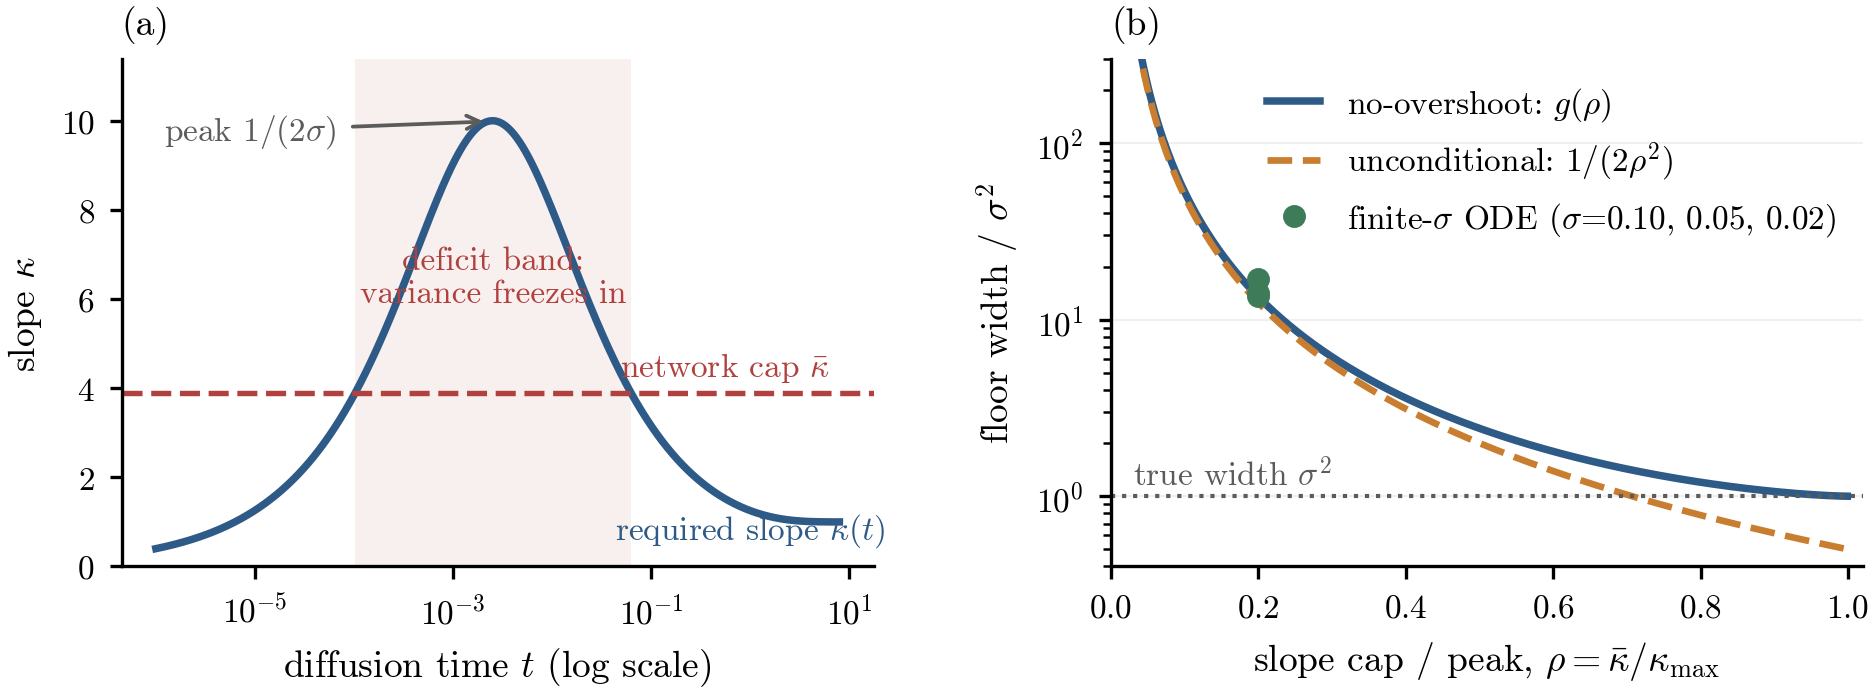
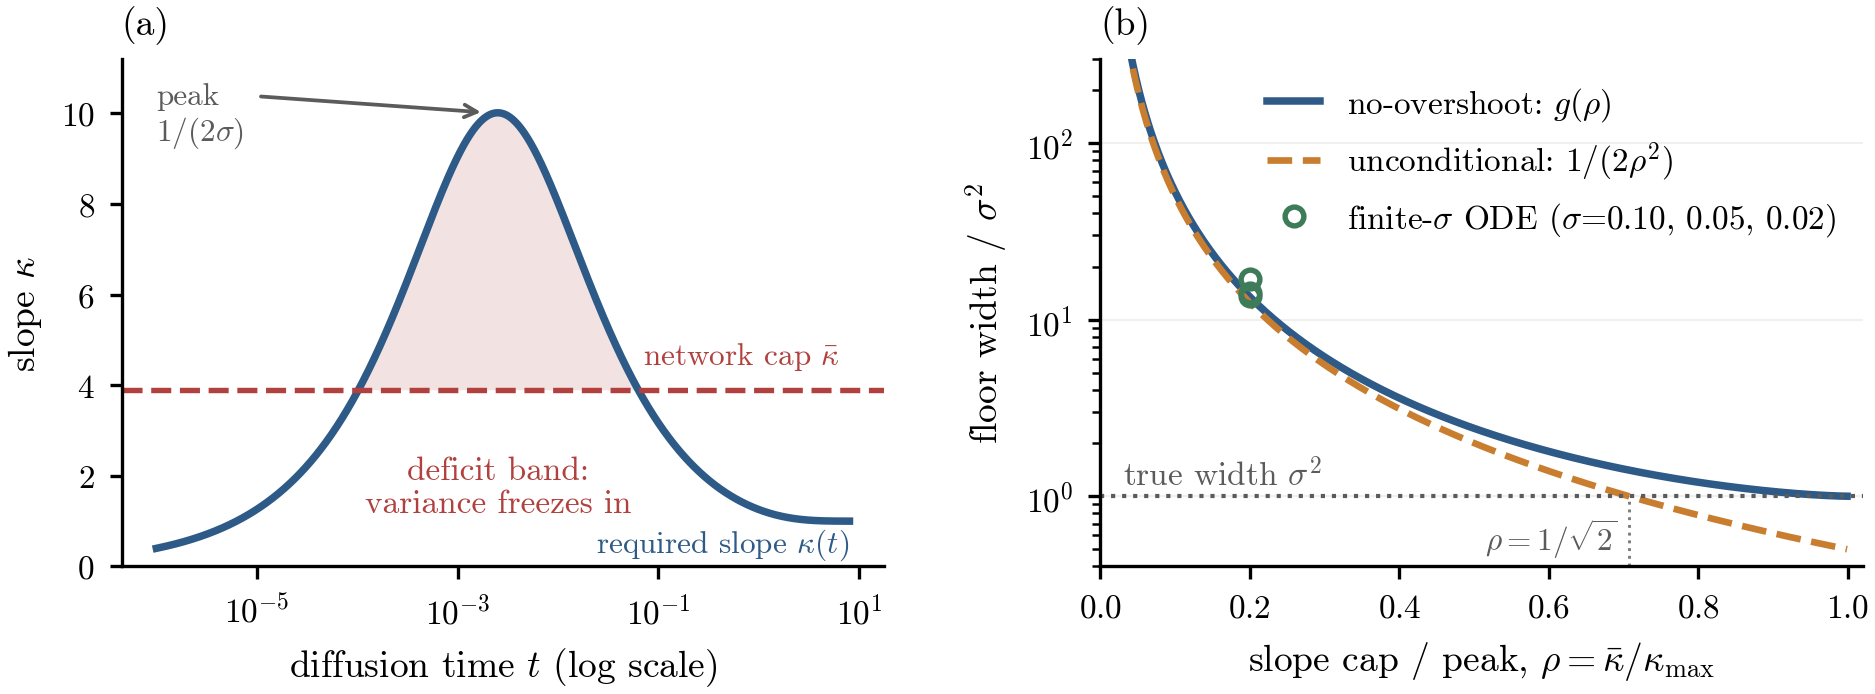
fig0 upgrade: shade the actual deficit lens instead of a band rectangle, mark the rho=1/sqrt2 threshold in panel (b), and add a programmatic text-collision check (text-only bboxes vs curves and other text) to the diagram script

diff --git a/make_paper_diagrams.py b/make_paper_diagrams.py
@@ -26,25 +26,27 @@ KBAR = 3.9
 fig, (ax, ax2) = plt.subplots(1, 2, figsize=(6.5, 2.55))
 
 # --- panel (a): the required slope is non-monotone, so the deficit band is finite.
-# Direct labels only (no legend box), so nothing can collide.
+# Direct labels only (no legend box); shade the actual deficit lens (cap-to-curve),
+# with dotted guides marking the band's extent on the time axis.
 ax.plot(t, kap, color=st.BLUE, lw=1.8)
 ax.axhline(KBAR, color=st.RED, lw=1.3, ls="--")
 bandmask = kap > KBAR
 tlo, thi = t[bandmask].min(), t[bandmask].max()
-ax.axvspan(tlo, thi, color=st.RED, alpha=0.08, lw=0)
-ax.text(np.sqrt(tlo * thi), 6.5, "deficit band:\nvariance freezes in",
+ax.fill_between(t, KBAR, kap, where=bandmask, color=st.RED, alpha=0.15, lw=0)
+ax.text(np.sqrt(tlo * thi), 1.75, "deficit band:\nvariance freezes in",
         ha="center", va="center", fontsize=8, color=st.RED)
-ax.annotate("peak $1/(2\\sigma)$", xy=(SIG ** 2, 1 / (2 * SIG)),
-            xytext=(1.2e-6, 9.6), fontsize=8, color=st.GRAY,
-            arrowprops=dict(arrowstyle="->", lw=0.9, color=st.GRAY))
-ax.text(1.0, 0.38, "required slope $\\kappa(t)$", fontsize=8,
-        color=st.BLUE, ha="center", va="bottom")
-ax.text(6.5, KBAR + 0.2, "network cap $\\bar\\kappa$", fontsize=8,
+ax.annotate("peak\n$1/(2\\sigma)$", xy=(SIG ** 2, 1 / (2 * SIG)),
+            xytext=(1e-6, 10.7), fontsize=7.5, color=st.GRAY, va="top",
+            arrowprops=dict(arrowstyle="->", lw=0.9, color=st.GRAY,
+                            shrinkB=4, relpos=(1.0, 0.8)))
+ax.text(8, 0.1, "required slope $\\kappa(t)$", fontsize=7.5,
+        color=st.BLUE, ha="right", va="bottom")
+ax.text(6.5, KBAR + 0.4, "network cap $\\bar\\kappa$", fontsize=7.5,
         color=st.RED, ha="right", va="bottom")
 ax.set_xscale("log")
 ax.set_xlabel("diffusion time $t$ (log scale)")
 ax.set_ylabel("slope $\\kappa$")
-ax.set_ylim(0, 11.4)
+ax.set_ylim(0, 11.2)
 ax.set_title("(a)", loc="left")
 
 # --- panel (b): the closed-form floor as a function of the slope cap
@@ -60,10 +62,15 @@ g_un = 1 / (2 * rho ** 2)
 ax2.plot(rho, g_no, color=st.BLUE, lw=1.8, label="no-overshoot: $g(\\rho)$")
 ax2.plot(rho, g_un, color=st.AMBER, lw=1.6, ls="--", label="unconditional: $1/(2\\rho^2)$")
 fs = [17.005, 14.121, 13.571]  # rho=0.2 at sigma=0.10, 0.05, 0.02
-ax2.plot([0.20] * 3, fs, "o", color=st.GREEN, ms=4.5,
+ax2.plot([0.20] * 3, fs, "o", color=st.GREEN, ms=4.5, mfc="none", mew=1.3,
          label="finite-$\\sigma$ ODE ($\\sigma$=0.10, 0.05, 0.02)")
 ax2.axhline(1, color=st.GRAY, ls=":", lw=1.0)
 ax2.text(0.03, 1.15, "true width $\\sigma^2$", color=st.GRAY, ha="left", fontsize=8)
+# the (U)-class threshold: floor exceeds sigma^2 whenever rho < 1/sqrt(2)
+RSTAR = 1 / np.sqrt(2)
+ax2.plot([RSTAR, RSTAR], [0.4, 1.0], color=st.GRAY, ls=":", lw=0.7, alpha=0.8)
+ax2.text(RSTAR - 0.015, 0.58, "$\\rho=1/\\sqrt{2}$", color=st.GRAY, fontsize=7.5,
+         ha="right", va="center")
 ax2.set_yscale("log")
 ax2.set_xlabel("slope cap / peak, $\\rho=\\bar\\kappa/\\kappa_{\\max}$")
 ax2.set_ylabel("floor width / $\\sigma^2$")
@@ -73,8 +80,50 @@ ax2.set_xlim(0, 1.02); ax2.set_ylim(0.4, 300)
 ax2.grid(axis="y", lw=0.5, alpha=0.18)
 
 fig.tight_layout(w_pad=2.0)
+
+# --- programmatic collision check: curves through text boxes, and text on text.
+def _text_bboxes(figure, axis):
+    from matplotlib.text import Text as _Text
+    figure.canvas.draw()
+    inv = axis.transData.inverted()
+    out = []
+    for txt in axis.texts:
+        if not txt.get_text():
+            continue
+        # Text-only extent: Annotation's override unions in the arrow, which by
+        # construction touches the curve it points at.
+        bb = _Text.get_window_extent(txt)
+        (x0, y0), (x1, y1) = inv.transform([(bb.x0, bb.y0), (bb.x1, bb.y1)])
+        out.append((txt.get_text()[:36], min(x0, x1), max(x0, x1),
+                    min(y0, y1), max(y0, y1)))
+    return out
+
+def check_collisions(figure, axis, curves):
+    import os
+    clean = True
+    boxes = _text_bboxes(figure, axis)
+    if os.environ.get("FIGDEBUG"):
+        for name, x0, x1, y0, y1 in boxes:
+            print("  box %-38r x:[%.3g, %.3g] y:[%.3g, %.3g]" % (name, x0, x1, y0, y1))
+    for name, x0, x1, y0, y1 in boxes:
+        for xs, ys in curves:
+            m = (xs >= x0) & (xs <= x1)
+            if m.any() and ((ys[m] >= y0) & (ys[m] <= y1)).any():
+                print("  COLLISION: %r vs curve" % name)
+                clean = False
+    for i in range(len(boxes)):
+        for j in range(i + 1, len(boxes)):
+            a, b = boxes[i], boxes[j]
+            if a[1] < b[2] and b[1] < a[2] and a[3] < b[4] and b[3] < a[4]:
+                print("  COLLISION: %r vs %r" % (a[0], b[0]))
+                clean = False
+    return clean
+
+capline = np.full_like(t, KBAR)
+ok_a = check_collisions(fig, ax, [(t, kap), (t, capline)])
+ok_b = check_collisions(fig, ax2, [(rho, g_no), (rho, g_un)])
 st.save(fig, "fig0_mechanism")
-print("fig0 OK")
+print("fig0 OK" + ("" if ok_a and ok_b else "  (with collisions -- fix placements!)"))
 
 # ---------------------------------------------------------------- fig5 pipeline
 fig, ax = plt.subplots(figsize=(6.2, 2.35))